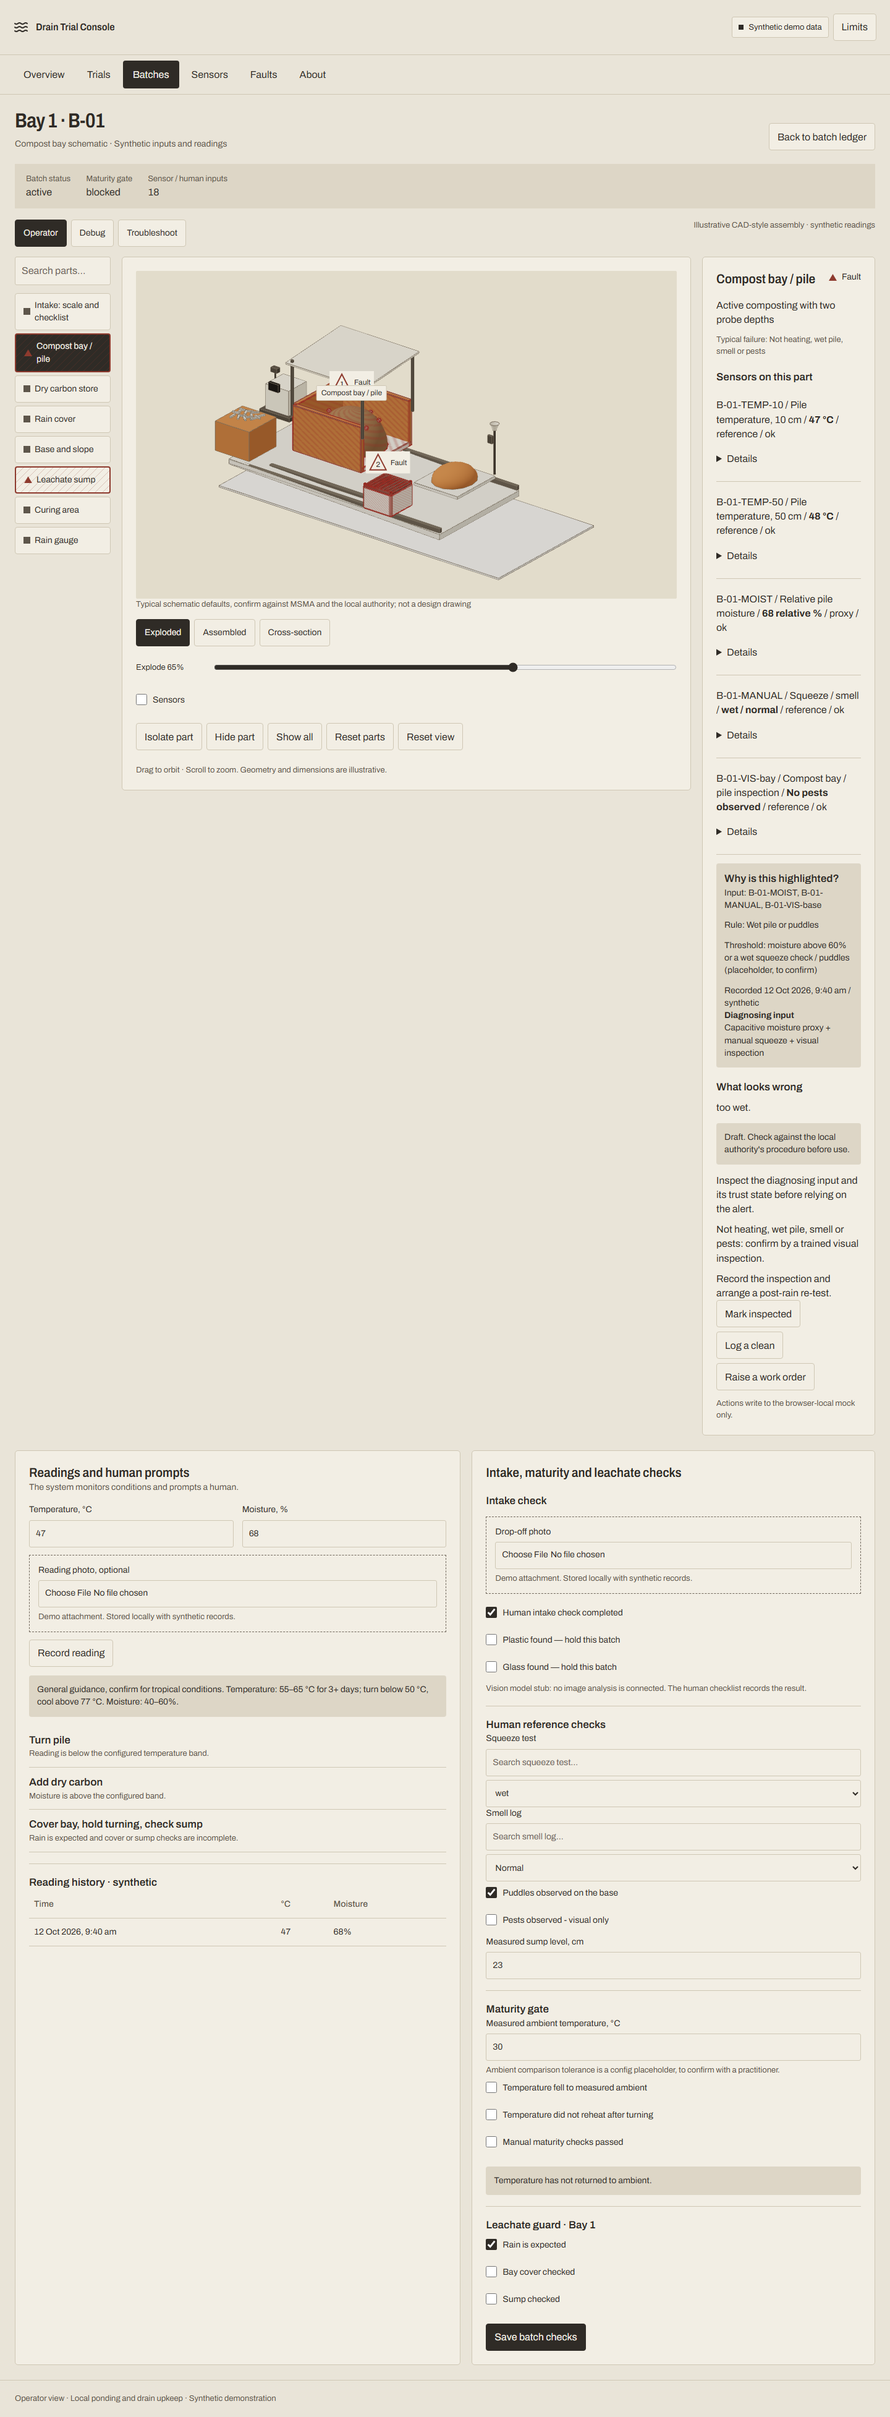
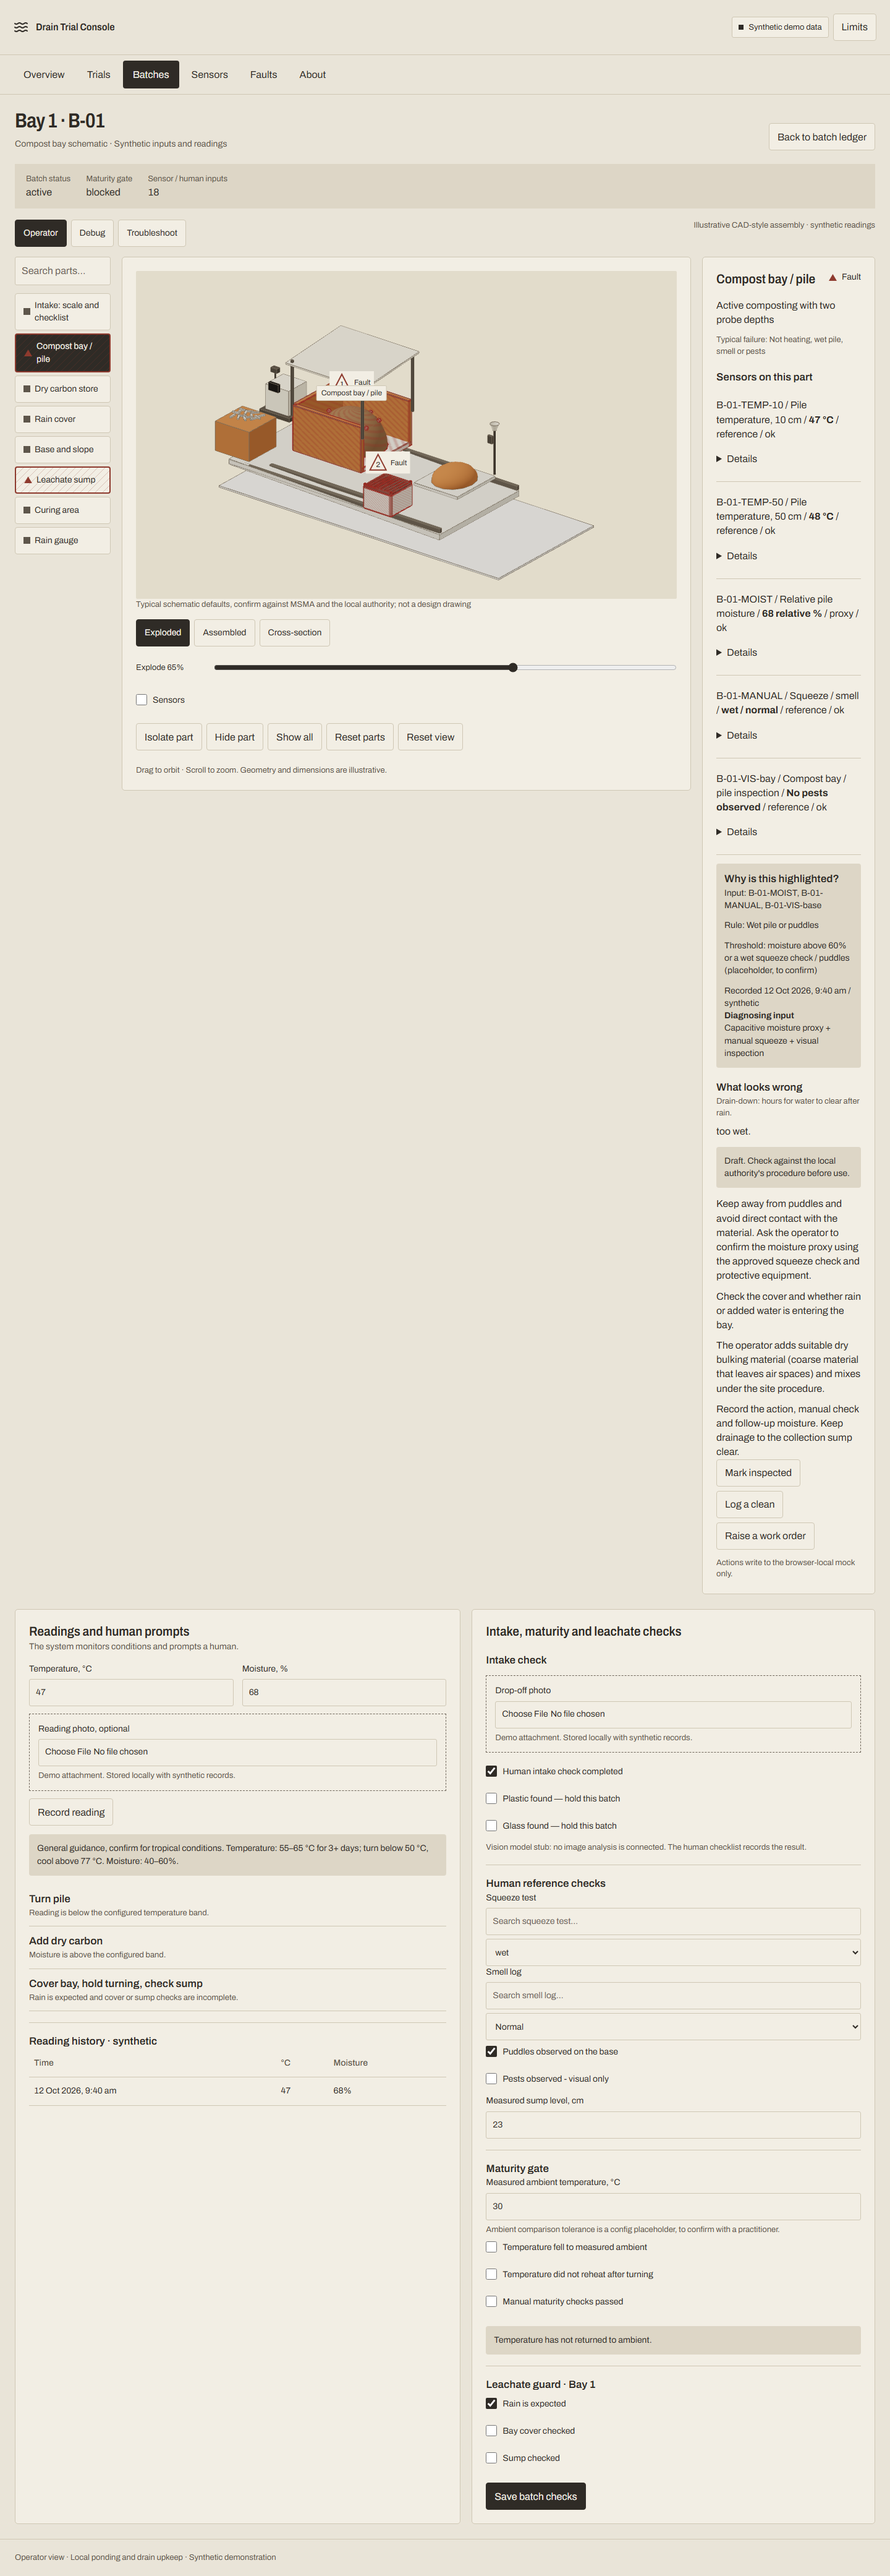
Provide concrete draft repair steps for each fault type

diff --git a/app/src/api/repairSteps.ts b/app/src/api/repairSteps.ts
@@ -1,0 +1,23 @@
+import type { Fault } from './types';
+
+const record = 'Record the photos, date, readings and work in the fault log. Arrange a manual check after the next rain; the console does not run field tests automatically.';
+const surface = 'Check from the surface in safe weather. Do not enter a chamber or lift a cover alone. Keep away from flowing water.';
+const sensor = ['Check the input ID, last reading time and calibration record before acting on its value.', 'Ask the trained operator to compare it with a manual reference reading and check power, connections and placement without entering a chamber.', 'Keep the input marked suspect or offline until the comparison and calibration are recorded. Do not treat a missing value as zero.'];
+export const repairSteps: Record<Fault['type'], string[]> = {
+  blockage: [surface, 'Photograph the inlet and filter sock (the fabric bag that traps sediment); note the date and sensor reading.', 'If rain is forecast within 24 hours, notify the owner of record and mark the inlet as restricted.', 'The owner arranges trained clearing or sock replacement and sediment disposal under the local procedure.', record],
+  sediment: [surface, 'Photograph and record the depth of deposited sand or silt at the inlet and bed.', 'Ask the owner to arrange removal without pushing the material into the downstream drain.', record],
+  standing_water: [surface, 'Record when rain ended, how long water has remained and the current depth. The 48-hour inspection prompt is a placeholder, to confirm.', 'Ask the owner to inspect trapped sediment and the underdrain (the pipe below the soil that carries water away). Do not probe a blocked pipe yourself.', 'The owner arranges trained clearance or repair; keep the affected area restricted until checked.', record],
+  sensor_suspect: [...sensor, record],
+  sensor_offline: [...sensor, record],
+  mulch_loss: [surface, 'Photograph bare areas and displaced mulch (the loose protective surface layer). Check whether rain moved it into an inlet.', 'Ask the owner to restore the approved mulch depth and secure the cause of washout. Keep loose material out of open drains.', record],
+  scour: [surface, 'Photograph channels cut into the soil by flowing water. Record nearby displaced material.', 'The owner arranges repair of the inlet flow spreader and eroded soil before replacing planting.', record],
+  sparse_planting: [surface, 'Photograph bare patches and note plant damage or dry soil.', 'The owner checks the cause and arranges suitable replacement planting without obstructing the drain.', record],
+  joint_leak: [surface, 'Photograph visible leakage and note the water level without touching or entering the pipe.', 'The owner arranges a trained check of the pipe joint and repair under the local procedure.', record],
+  missing_cap: [surface, 'Photograph the missing cap and keep people away from the opening.', 'Ask the owner to fit the correct cap and inspect for material that entered the pipe.', record],
+  not_heating: ['Check the batch age and compare both pile temperature probes with the air reference. A cooling mature batch may not need heating.', 'Ask the operator to check moisture with the approved manual method and review the recorded mix of food and dry material.', 'The operator adjusts moisture or dry material and turns the pile only under the site procedure, then records follow-up temperatures.', 'Keep maturity and allocation gates in place; a temperature rise alone does not prove maturity.'],
+  too_wet: ['Keep away from puddles and avoid direct contact with the material. Ask the operator to confirm the moisture proxy using the approved squeeze check and protective equipment.', 'Check the cover and whether rain or added water is entering the bay.', 'The operator adds suitable dry bulking material (coarse material that leaves air spaces) and mixes under the site procedure.', 'Record the action, manual check and follow-up moisture. Keep drainage to the collection sump clear.'],
+  putrid_smell: ['Do not lean into the bay to smell it. Move away from strong odour and notify the operator.', 'Keep other people clear; the operator checks wetness, trapped liquid and the cover from a safe position.', 'A trained operator arranges aeration and dry bulking material under the site procedure; do not enter an enclosed space.', 'Record the observation and follow-up checks. No gas sensor or safe-air claim is provided by this console.'],
+  ammonia_smell: ['Move away from strong odour; do not deliberately inhale it or lean into the pile. Notify the operator.', 'The operator reviews the food input and dry-carbon mix and checks moisture with the approved method.', 'The operator adjusts dry-carbon material under the site procedure, then records the change and follow-up observations.', 'Keep the batch on hold pending the maturity checks. The smell log is a human observation, not a gas measurement.'],
+  pests: ['Observe from a distance and photograph signs without handling pests or contaminated material.', 'Ask the operator to check exposed food, spilled inputs and gaps in the cover.', 'The operator removes spills, secures the cover and arranges approved pest management if activity persists.', 'Record the location and follow-up inspection; do not apply unapproved chemicals to compost.'],
+  leachate: ['Leachate is liquid draining from compost. Avoid contact and keep people away from overflow.', 'From the surface, photograph the cover, collection channel and sump; record recent rain and the level.', 'Notify the owner to arrange containment, collection and disposal under the local procedure. Do not release it into a storm drain.', 'The operator checks and repairs the cover or collection system, then records a post-rain check.'],
+};

diff --git a/app/src/api/parts.ts b/app/src/api/parts.ts
@@ -1,3 +1,4 @@
+import { repairSteps } from './repairSteps';
 import { bayParts, drainParts } from './modelCatalog';
 import type { Fault, Part, Sensor, Status } from './types';
 
@@ -42,13 +43,7 @@ export function buildParts(
         : fault
           ? `${fault.type.replaceAll('_', ' ')}. Diagnosing input: ${fault.diagnosingInput}.`
           : 'No open fault recorded for this part.',
-      steps: fault
-        ? [
-            'Inspect the diagnosing input and its trust state before relying on the alert.',
-            definition.typicalFailure + ': confirm by a trained visual inspection.',
-            'Record the inspection and arrange a post-rain re-test.',
-          ]
-        : undefined,
+      steps: fault ? repairSteps[fault.type] : undefined,
     };
   });
 }

diff --git a/app/src/api/repairSteps.test.ts b/app/src/api/repairSteps.test.ts
@@ -1,0 +1,9 @@
+import { expect, it } from 'vitest';
+import { repairSteps } from './repairSteps';
+it('keeps sensor verification, safe surface access and maturity gates explicit', () => {
+  expect(Object.values(repairSteps).every(steps => steps.length >= 3)).toBe(true);
+  expect(repairSteps.blockage.join(' ')).toContain('Do not enter');
+  expect(repairSteps.sensor_suspect.join(' ')).toContain('manual reference');
+  expect(repairSteps.not_heating.join(' ')).toContain('allocation gates');
+  expect(repairSteps.blockage.join(' ')).toContain('does not run field tests automatically');
+});

diff --git a/app/src/components/PartPanel.tsx b/app/src/components/PartPanel.tsx
@@ -83,6 +83,7 @@ export default function PartPanel({
         </p>
       )}
       <h3 style={{ marginTop: 20 }}>What looks wrong</h3>
+      <p className="small">Drain-down: hours for water to clear after rain.</p>
       <p style={{ marginTop: 8 }}>{part.issue?.split('Diagnosing input:')[0]}</p>
       {part.steps?.length && (
         <>
